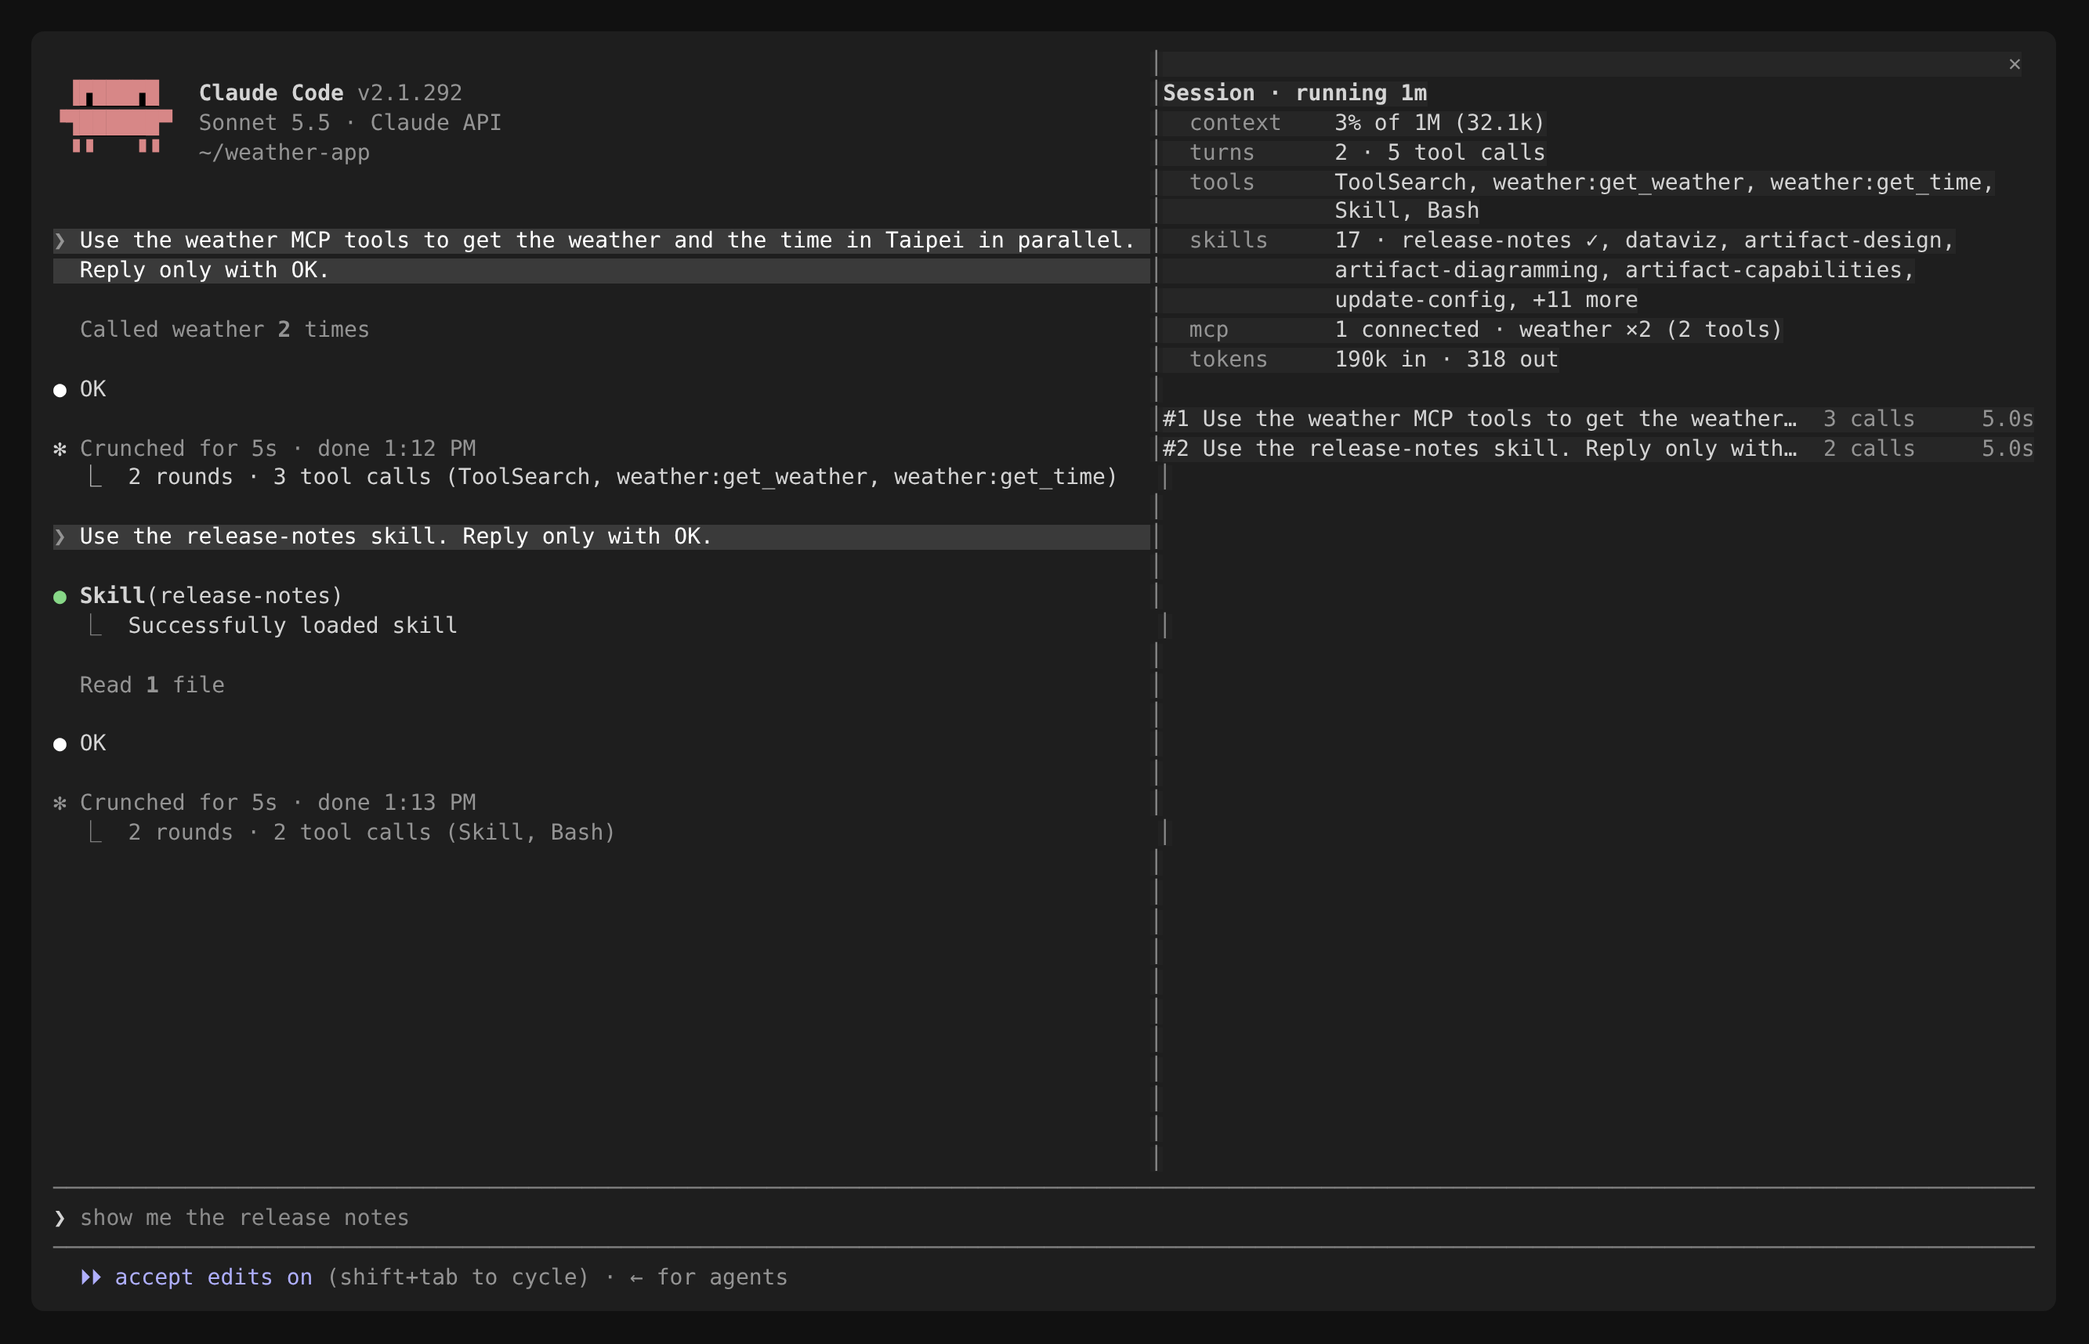
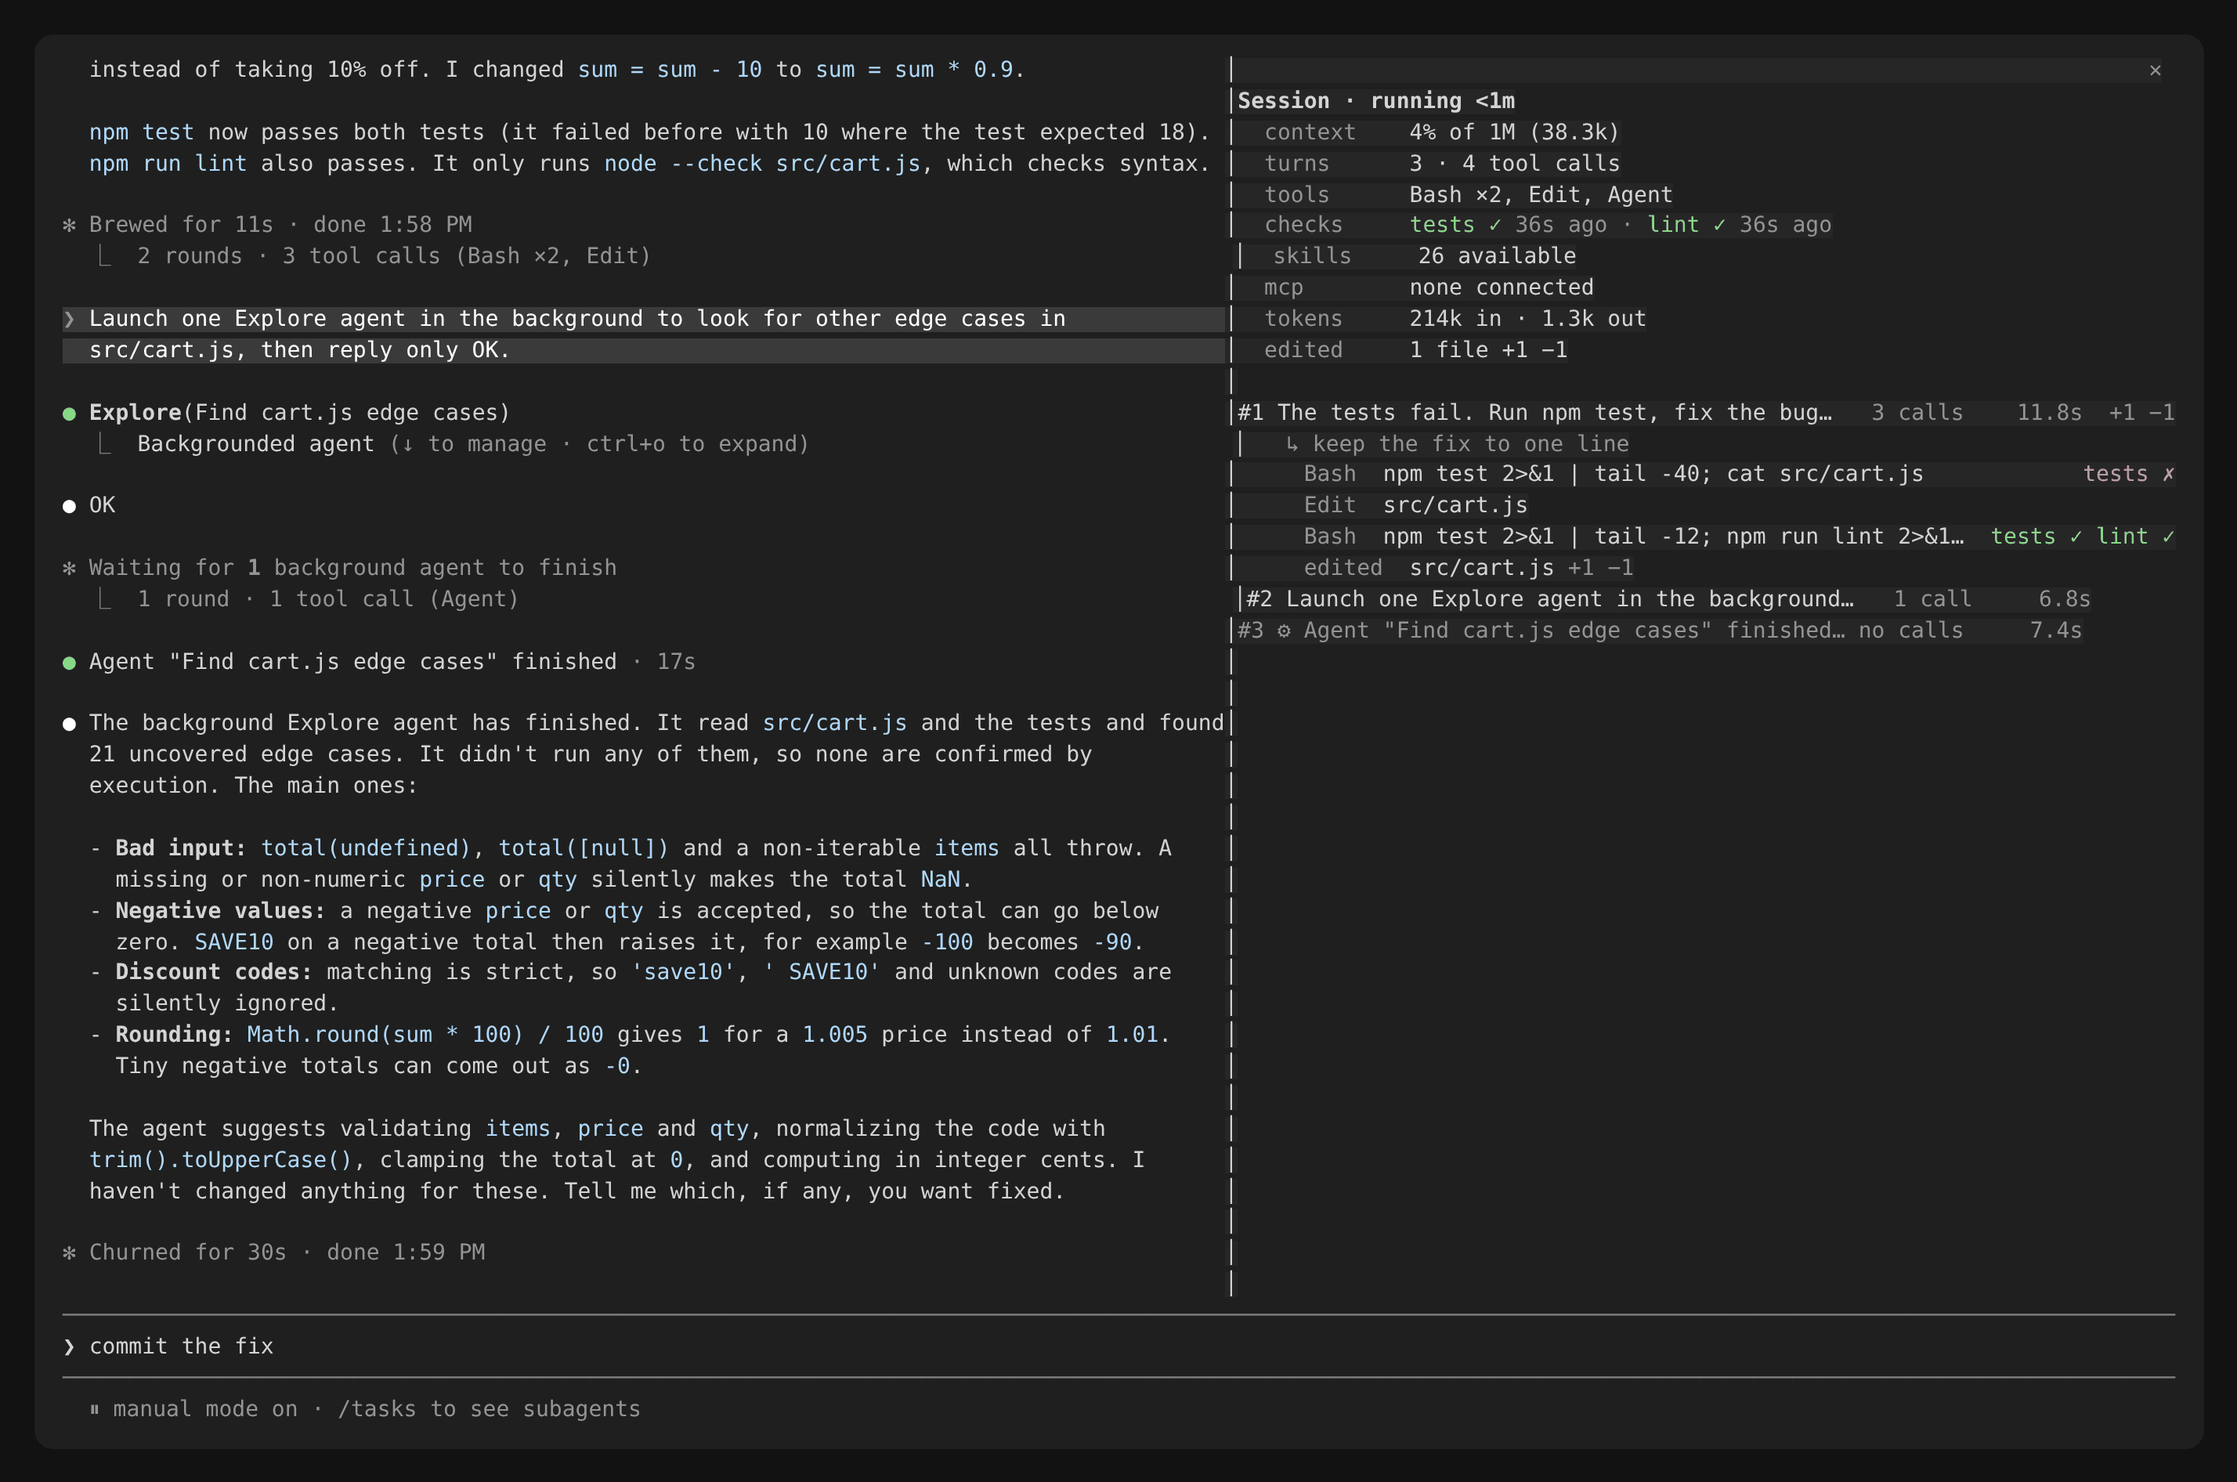
Show what a check found on its call; new timeline screenshot
A test run piped through tail exits 0, so the output decides: also read
node --test / TAP summaries, go's --- FAIL, cargo's test result: FAILED
and bun's '1 fail'. An expanded turn marks each command that ran checks
with how they went (tests ✗), without counting it as the turn's failure.

The README's timeline screenshot is retaken from a real session: a turn
pressed open, the failing test run it started from, a steer and a
subagent's turn.

Claude-Session: https://claude.ai/code/session_01PdsCDzhGne4ZwJVctMTHFS

diff --git a/hooks/lib/activity.ts b/hooks/lib/activity.ts
@@ -2,7 +2,7 @@
 // checks a shell command ran (tests, lint, types, build), the plan the model
 // keeps, and what a subagent did. register.tsx feeds them tool.call results.
 
-import type { CockpitAgentStats, CockpitCall, CockpitCheck, CockpitCheckKind, CockpitLiveTurn, CockpitPlanItem } from '../../types'
+import type { CockpitAgentStats, CockpitCall, CockpitCheck, CockpitCheckKind, CockpitCheckRun, CockpitLiveTurn, CockpitPlanItem } from '../../types'
 import { count, formatDuration, toolLabel } from './rounds'
 import { program, segments } from './rules'
 import { noteOf } from './timeline'
@@ -80,13 +80,25 @@ export function errorLine(error: string): string {
 }
 
 /** The call as a turn records it. */
-export function callOf(tool: string, input: Record<string, unknown>, root: string, error?: string, agentId?: string): CockpitCall {
+export function callOf(
+  tool: string,
+  input: Record<string, unknown>,
+  root: string,
+  outcome: { error?: string; agentId?: string; checked?: CockpitCheckRun | null } = {},
+): CockpitCall {
+  const { error, agentId, checked } = outcome
   return {
     tool,
     subject: subjectOfCall(tool, input, root),
     ...(error !== undefined ? { error: errorLine(error) } : {}),
     ...(agentId !== undefined ? { agentId } : {}),
+    ...(checked ? { checked } : {}),
   }
+}
+
+/** `tests ✗`, `lint ✓ types ✓`: what a call checked, as its row shows it. */
+export function describeChecked(run: CockpitCheckRun): string {
+  return run.kinds.map(kind => kind + (run.isPassing ? ' ✓' : ' ✗')).join(' ')
 }
 
 /** `Read`, `github:get_issue`: a call's tool as its row shows it. */
@@ -135,9 +147,23 @@ export function checkKinds(command: string): CockpitCheckKind[] {
  */
 export function checkFailed(kinds: readonly CockpitCheckKind[], isError: boolean, output: string): boolean {
   if (isError) return true
-  if (/\b[1-9]\d* (?:failed|failing|failures?)\b/i.test(output) || /^\s*FAIL\b/m.test(output)) return true
+  const said = [
+    /\b[1-9]\d* (?:fail|failed|failing|failures?)\b/i, // `2 failed`, `1 fail` (bun, claude plugin test)
+    /^\s*FAIL\b/m, // jest, vitest
+    /^# fail\s+[1-9]/m, // node --test, TAP summaries
+    /^not ok \d+/m, // TAP
+    /^--- FAIL\b/m, // go test
+    /\btest result: FAILED\b/, // cargo test
+  ]
+  if (said.some(pattern => pattern.test(output))) return true
   const counted = kinds.includes('lint') || kinds.includes('types')
   return counted && (/\b[1-9]\d* errors?\b/i.test(output) || /\berror TS\d+:/.test(output))
+}
+
+/** What one shell command checked and whether it passed; null when it ran no check. */
+export function checkRun(command: string, isError: boolean, output: string): CockpitCheckRun | null {
+  const kinds = checkKinds(command)
+  return kinds.length === 0 ? null : { kinds, isPassing: !checkFailed(kinds, isError, output) }
 }
 
 /** The checks with a command's run in place of the ones it ran before. */
@@ -148,9 +174,9 @@ export function recordChecks(
   output: string,
   at: number,
 ): CockpitCheck[] {
-  const kinds = checkKinds(command)
-  if (kinds.length === 0) return [...checks]
-  const isPassing = !checkFailed(kinds, isError, output)
+  const run = checkRun(command, isError, output)
+  if (run === null) return [...checks]
+  const { kinds, isPassing } = run
   const runs = kinds.map(kind => ({ kind, isPassing, command: cut(command), at }))
   return [...checks.filter(check => !kinds.includes(check.kind)), ...runs].sort(
     (a, b) => KIND_ORDER.indexOf(a.kind) - KIND_ORDER.indexOf(b.kind),

diff --git a/tests/activity.test.ts b/tests/activity.test.ts
@@ -67,13 +67,19 @@ describe('activity helpers', () => {
   test('a check failed when the shell says so, or its output does', async () => {
     expect(checkFailed(['tests'], true, '')).toBe(true)
     // `npm test | tail` exits 0: the output still says.
-    expect(checkFailed(['tests'], false, ' 101 pass\n 2 fail\n')).toBe(false)
+    expect(checkFailed(['tests'], false, ' 101 pass\n 0 fail\n')).toBe(false)
     expect(checkFailed(['tests'], false, 'Tests: 2 failed, 40 passed')).toBe(true)
     expect(checkFailed(['tests'], false, 'FAIL src/a.test.ts')).toBe(true)
     expect(checkFailed(['tests'], false, '0 failed, 12 passed')).toBe(false)
     expect(checkFailed(['types'], false, "src/a.ts(3,1): error TS2322: Type 'x'")).toBe(true)
     expect(checkFailed(['lint'], false, '✖ 3 errors, 0 warnings')).toBe(true)
     expect(checkFailed(['tests'], false, '3 errors were expected and handled')).toBe(false)
+    // node --test and TAP, go, cargo, bun: piped through tail, only the output tells.
+    expect(checkFailed(['tests'], false, 'not ok 2 - SAVE10 takes 10% off\n# tests 2\n# pass 1\n# fail 1\n')).toBe(true)
+    expect(checkFailed(['tests'], false, 'ok 1 - sums\n# tests 1\n# pass 1\n# fail 0\n')).toBe(false)
+    expect(checkFailed(['tests'], false, '--- FAIL: TestTotal (0.00s)')).toBe(true)
+    expect(checkFailed(['tests'], false, 'test result: FAILED. 3 passed; 1 failed')).toBe(true)
+    expect(checkFailed(['tests'], false, ' 117 pass\n 1 fail\n')).toBe(true)
   })
 
   test("each kind keeps its last run, in a fixed order", async () => {
@@ -243,6 +249,33 @@ describe('timeline pane: what each turn did', () => {
     expect(lines[0]).toBe('#1 clean up 1 call 1.0s ✗ 1')
     expect(lines[1]).toBe('Bash ✗ rm -rf build')
     expect(lines[2]).toMatch(/^cockpit blocked this call: /)
+    await ui.unmount()
+  })
+
+  test('a check that failed shows on its call, though a pipe hid the exit code', async ($, on) => {
+    world(on, {
+      Bash: e =>
+        String(e.command).startsWith('npm test 2>&1 | tail')
+          ? { result: 'ok', text: 'not ok 2 - SAVE10 takes 10% off\n# pass 1\n# fail 1' }
+          : { result: 'ok', text: '# pass 2\n# fail 0' },
+    })
+    on('turn.step', stepsByTurn({ t1: [{ tools: ['Bash', 'Bash'] }, { tools: [] }] }))
+    await $.turn.start({ text: 'fix the tests', turnId: 't1' })
+    await drain($.turn.step({ turnId: 't1', index: 0, model: 'any-model', messageCount: 1 }))
+    await $.tool.call({ tool: 'Bash', command: 'npm test 2>&1 | tail -40; cat src/cart.js', tool_use_id: 'toolu_1' })
+    await $.tool.call({ tool: 'Bash', command: 'npm test', tool_use_id: 'toolu_2' })
+    await drain($.turn.step({ turnId: 't1', index: 1, model: 'any-model', messageCount: 3 }))
+    await $.turn.complete({ turnId: 't1', answer: 'done', durationMs: 1_000, isAborted: false, reason: 'answer' })
+
+    const ui = await $.ui.mount(pane('terminal'))
+    await ui.press({ key: 'turn-t1' })
+    // Not the turn's failures: finding a failing test is part of fixing it.
+    expect(await turnLines(ui)).toEqual([
+      '#1 fix the tests 2 calls 1.0s',
+      'Bash npm test 2>&1 | tail -40; cat src/cart.js tests ✗',
+      'Bash npm test tests ✓',
+    ])
+    expect(texts(await ui.find({ key: 'checks' })).join('')).toBe('  checkstests ✓ just now')
     await ui.unmount()
   })
 

diff --git a/hooks/ui/timeline.tsx b/hooks/ui/timeline.tsx
@@ -7,7 +7,7 @@
 import type { Elements, RenderElement, RenderSurface } from 'claude-code'
 
 import type { CockpitAgentStats, CockpitCall, CockpitCheck, CockpitLiveTurn, CockpitPlanItem, CockpitTimeline, CockpitTurnRow } from '../../types'
-import { callTool, describeAgent, describePlan, formatAgo, planBar } from '../lib/activity'
+import { callTool, describeAgent, describeChecked, describePlan, formatAgo, planBar } from '../lib/activity'
 import { count, formatDuration, formatTally, roundBrief } from '../lib/rounds'
 import {
   describeCalls,
@@ -252,12 +252,21 @@ export function timelineTree(ui: Elements[RenderSurface], model: TimelineModel):
     }
     calls.forEach((call, i) => {
       const subject = callSubject(call, model.agentStats)
+      // A shell command that ran checks ends with how they went: `tests ✗`.
+      const checked = call.checked ? describeChecked(call.checked) : ''
       rows.push(
         <Box key={`${key}-call-${i}`} flexDirection="row">
           <Text dimColor>{indent + callTool(call).slice(0, toolWidth).padEnd(toolWidth) + '  '}</Text>
-          <Text color={call.error !== undefined ? 'error' : undefined} wrap="truncate-end">
-            {fitWidth((call.error !== undefined ? '✗ ' : '') + (subject || '—'), subjectRoom)}
-          </Text>
+          <Box flexGrow={1} flexShrink={1}>
+            <Text color={call.error !== undefined ? 'error' : undefined} wrap="truncate-end">
+              {fitWidth((call.error !== undefined ? '✗ ' : '') + (subject || '—'), subjectRoom - (checked === '' ? 0 : checked.length + 2))}
+            </Text>
+          </Box>
+          {checked === '' ? null : (
+            <Box flexShrink={0}>
+              <Text color={call.checked!.isPassing ? 'success' : 'error'}>{'  ' + checked}</Text>
+            </Box>
+          )}
         </Box>,
       )
       if (call.error !== undefined) {

diff --git a/hooks/register.tsx b/hooks/register.tsx
@@ -5,6 +5,7 @@ import {
   addAgentCall,
   addCall,
   callOf,
+  checkRun,
   noteLabel,
   planFromTaskList,
   planFromTodos,
@@ -102,16 +103,19 @@ async function recordCall($: EngineInterface, e: Readonly<Record<string, unknown
   const input = argsOf(e)
   const error = a.deny !== undefined ? a.deny : a.isError ? a.text ?? (typeof a.result === 'string' ? a.result : 'failed') : undefined
   const isFailed = error !== undefined
+  // A shell command that ran tests, lint, a type-check or a build: its outcome is a check's.
+  const isShell = (e.tool === 'Bash' || e.tool === 'PowerShell') && typeof input.command === 'string'
+  const checked = isShell && input.run_in_background !== true && a.deny === undefined ? checkRun(String(input.command), a.isError === true, a.text ?? '') : null
   if (e.agentId !== undefined) {
     const agentId = e.agentId
     await update($, agentStats, current => addAgentCall(current, agentId, isFailed))
   } else {
     const started = e.tool === 'Agent' && !isFailed ? (a.result as { agentId?: unknown } | undefined)?.agentId : undefined
-    const call = callOf(e.tool, input, await rootOf($), error, typeof started === 'string' ? started : undefined)
+    const call = callOf(e.tool, input, await rootOf($), { error, agentId: typeof started === 'string' ? started : undefined, checked })
     await update($, live, turn => addCall(turn, call))
   }
-  if ((e.tool === 'Bash' || e.tool === 'PowerShell') && typeof input.command === 'string' && input.run_in_background !== true && a.deny === undefined) {
-    const command = input.command
+  if (checked !== null) {
+    const command = String(input.command)
     const at = await $.clock.now()
     await update($, checks, current => recordChecks(current, command, a.isError === true, a.text ?? '', at))
   }

diff --git a/types/index.d.ts b/types/index.d.ts
@@ -101,6 +101,14 @@ export type CockpitCall = {
   error?: string
   /** For an Agent call: the subagent it started, by the id its own calls carry. */
   agentId?: string
+  /** For a shell command that ran checks (tests, lint, …): which, and whether they passed. */
+  checked?: CockpitCheckRun
+}
+
+/** The checks one shell command ran, and whether they passed. */
+export type CockpitCheckRun = {
+  kinds: readonly CockpitCheckKind[]
+  isPassing: boolean
 }
 
 /** A kind of check a shell command runs. */

diff --git a/README.zh-TW.md b/README.zh-TW.md
@@ -32,9 +32,9 @@ spinner 會顯示目前第幾輪、這輪跑幾個 tool call。turn 結束時，
 
 `/cockpit` 打開一個 pane，顯示整個 session 的狀況：context 用量、turn 數與失敗的呼叫、tools、最近一次的測試／lint／型別檢查／建置結果、計畫進度、用到的 skills 和 MCP server、tokens、改過的檔案，接著每輪一行，從 #1 往下。`/cockpit close` 關閉。想每次開 session 都自動打開，設定 `timelineAutoOpen`；終端機寬度不到 144 欄（自己開過一次後為 110 欄）時，pane 會等到終端機變寬或你執行 `/cockpit` 才顯示。
 
-![停靠在對話旁的 timeline pane](docs/images/timeline.png)
+![對話旁的 timeline pane：展開一輪，看得到每個呼叫、一開始失敗的測試，以及 subagent 那一輪](docs/images/timeline.png)
 
-每輪一行：prompt、呼叫數、時間、改動行數，有呼叫失敗（出錯、非零退出、被擋下）時標 `✗ n`。點一下某一輪，會在底下列出它的每個呼叫，失敗的用紅字並附上 Claude 讀到的錯誤，最後是它改過的檔案。
+每輪一行：prompt、呼叫數、時間、改動行數，有呼叫失敗（出錯、非零退出、被擋下）時標 `✗ n`。點一下某一輪，會在底下列出它的每個呼叫，失敗的用紅字並附上 Claude 讀到的錯誤；跑了檢查的指令會標出結果（`tests ✗`），最後是它改過的檔案。
 
 - **checks**：每種檢查最近一次的結果，Claude 或 subagent 跑的都算：`tests ✗ 2m ago · lint ✓ just now`。依 shell 指令內容判斷種類（`npm test`、`pytest`、`cargo clippy`、`tsc`、`npm run build` 等）；非零退出或輸出顯示失敗就算失敗。
 - **plan**：Claude 用 task 工具（TodoWrite，或 TaskCreate／TaskUpdate）列的步驟，畫成一條格子 `■■■□□ 3/5 · Running tests`：完成、進行中、待做。點一下列出各步驟。

diff --git a/README.md b/README.md
@@ -32,9 +32,9 @@ A round is the set of tool calls in one model response. Subagents aren't counted
 
 `/cockpit` opens a pane with the session's state: context use, turns and failed calls, tools, the last test, lint, type-check and build runs, the plan's progress, the skills and MCP servers used, tokens and edited files, then one line per turn from #1 down. `/cockpit close` closes it. To open it at every session start, set `timelineAutoOpen`; on a terminal narrower than 144 columns (110 once you've opened it yourself) it waits until the terminal widens or you run `/cockpit`.
 
-![Timeline pane docked beside the transcript](docs/images/timeline.png)
+![Timeline pane beside the transcript: a turn pressed open to its calls, the failing test run it started from, and a subagent's turn](docs/images/timeline.png)
 
-Each turn is one line: its prompt, calls, time, lines changed and `✗ n` for calls that failed (an error, a non-zero exit, a blocked call). Press a turn to list its calls under it, failures in red with the error Claude read, then the files it edited.
+Each turn is one line: its prompt, calls, time, lines changed and `✗ n` for calls that failed (an error, a non-zero exit, a blocked call). Press a turn to list its calls under it, failures in red with the error Claude read, a command that ran checks with how they went (`tests ✗`), then the files it edited.
 
 - **checks**: the last run of each kind of check, by Claude or a subagent: `tests ✗ 2m ago · lint ✓ just now`. A shell command counts as one by what it runs (`npm test`, `pytest`, `cargo clippy`, `tsc`, `npm run build`, …); it failed when it exited non-zero or its output says so.
 - **plan**: the steps Claude keeps with its task tools (TodoWrite, or TaskCreate and TaskUpdate) as a bar, `■■■□□ 3/5 · Running tests`: done, running, waiting. Press it to list the steps.
